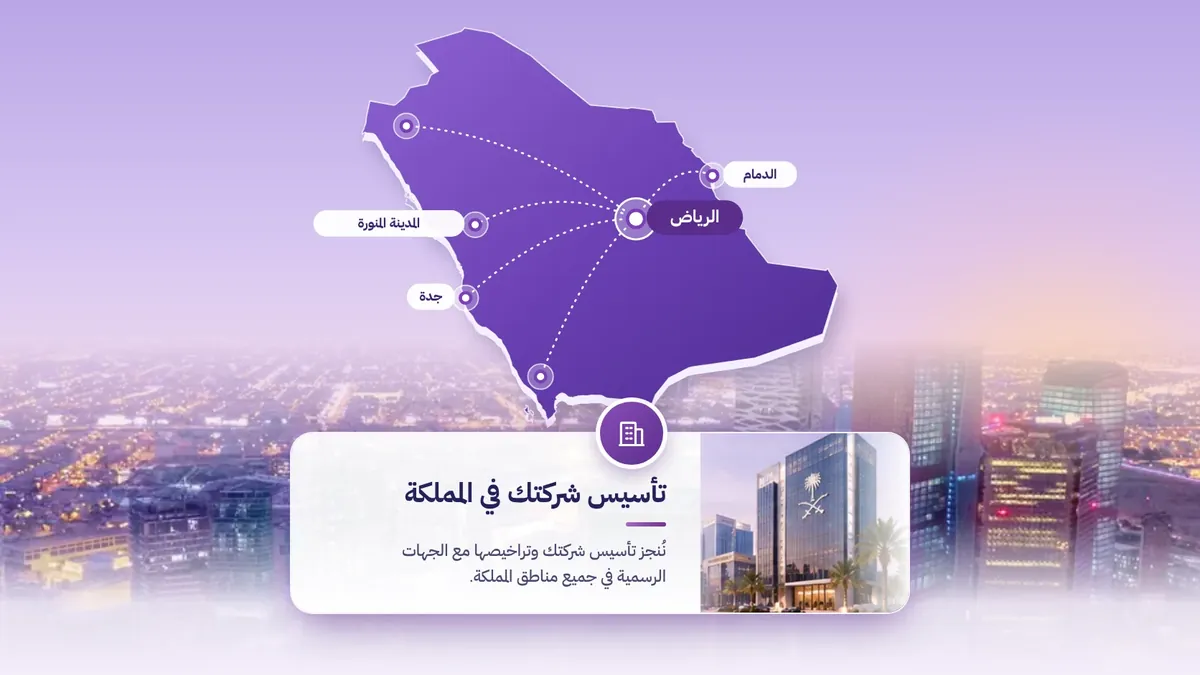
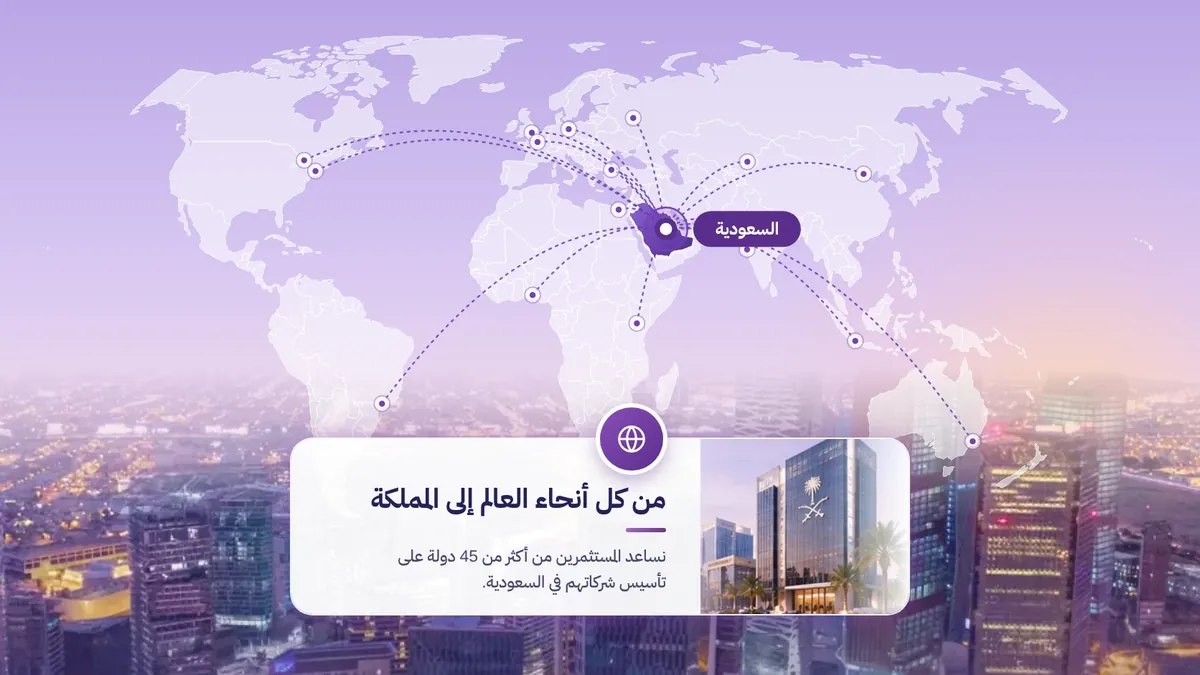
SA variant: foreign businessman hero, world-to-KSA image, FAQ for foreigners
Claude-Session: https://claude.ai/code/session_01NBvG3p8pHLfApGAyQMSkQa

diff --git a/sa/index.html b/sa/index.html
@@ -11,8 +11,8 @@ j=d.createElement(s),dl=l!='dataLayer'?'&l='+l:'';j.async=true;j.src=
 <meta charset="utf-8">
 <meta name="viewport" content="width=device-width, initial-scale=1, viewport-fit=cover">
 <title>تأسيس شركتك في السعودية بملكية أجنبية 100% للمقيمين | مرسى الأعمال</title>
-<link rel="preload" as="image" href="../assets/img/hero-1600.webp" media="(min-width:721px)" fetchpriority="high">
-<link rel="preload" as="image" href="../assets/img/hero-mobile.webp" media="(max-width:720px)" fetchpriority="high">
+<link rel="preload" as="image" href="../assets/img/hero-sa-1600.webp" media="(min-width:721px)" fetchpriority="high">
+<link rel="preload" as="image" href="../assets/img/hero-sa-mobile.webp" media="(max-width:720px)" fetchpriority="high">
 <meta name="description" content="مرسى الأعمال شريكك في تأسيس شركتك داخل المملكة: تأسيس الشركات، التراخيص، الامتثال الحكومي والإقامة المميزة. أكثر من 2,000 شركة تم تأسيسها.">
 <meta name="theme-color" content="#26488A">
 <link rel="icon" href="../assets/img/fav.png">
@@ -743,7 +743,7 @@ body.bar-on .wa-float{opacity:1;visibility:visible;transform:none}
 .form-card .phone-row .cc-pick .cc-btn{width:auto;min-width:112px;padding:0 30px 0 12px;font-size:15px}
 .hero h1 .hero-hl{font-style:normal;color:#fff;margin-top:10px;text-shadow:none;padding:.04em .45em .16em}
 </style>
-<script type="application/ld+json">{"@context": "https://schema.org", "@type": "FAQPage", "mainEntity": [{"@type": "Question", "name": "هل يمكن للمقيم في السعودية تأسيس شركة باسمه؟", "acceptedAnswer": {"@type": "Answer", "text": "نعم، في كثير من الأنشطة يمكن للمقيم تأسيس شركته بملكية كاملة عبر الترخيص الاستثماري. يقيّم مستشارك نشاطك ويوضح لك المتطلبات والخطوات المناسبة لحالتك."}}, {"@type": "Question", "name": "هل تشترطون جنسية معينة للاستفادة من خدماتكم؟", "acceptedAnswer": {"@type": "Answer", "text": "لا. نخدم المواطنين والمقيمين والمستثمرين الراغبين في تأسيس أعمالهم داخل المملكة، وقد خدمنا عملاء من أكثر من 45 دولة. تختلف المتطلبات حسب حالتك ونشاطك، ويحددها مستشارك في مرحلة التقييم."}}, {"@type": "Question", "name": "هل تساعدونني في تسجيل الاستثمار واختيار النشاط التجاري؟", "acceptedAnswer": {"@type": "Answer", "text": "نعم. نقيّم متطلبات الاستثمار، ونساعدك في اختيار النشاط التجاري، ثم نجهز ونتابع إجراءات التسجيل."}}, {"@type": "Question", "name": "هل تساعدون في فتح الحساب البنكي وتأشيرة المستثمر؟", "acceptedAnswer": {"@type": "Answer", "text": "نعم. ضمن مرحلة الجاهزية لممارسة الأعمال، نساعدك في فتح الحساب البنكي للشركة، وندعم إجراءات تأشيرة المستثمر والمدير العام."}}, {"@type": "Question", "name": "هل يمكنكم مساعدتي في الحصول على الإقامة المميزة؟", "acceptedAnswer": {"@type": "Answer", "text": "نقيّم أهليتك، ونساعدك في اختيار منتج الإقامة الأنسب، ونجهز المستندات ونتابع الطلب مع الجهات المختصة. يبقى قرار الموافقة لدى الجهة المختصة."}}, {"@type": "Question", "name": "ماذا تقدمون بعد تأسيس الشركة؟", "acceptedAnswer": {"@type": "Answer", "text": "نستمر معك في الامتثال الحكومي والتنظيمي، وتجديد التراخيص، والمنصات الحكومية، والتأشيرات، إضافة إلى العقارات والتسويق والهيكلة المالية واستشارات الأعمال."}}, {"@type": "Question", "name": "كم تستغرق إجراءات التأسيس، وما تكلفتها؟", "acceptedAnswer": {"@type": "Answer", "text": "تختلف المدة والتكلفة حسب نوع النشاط ومتطلبات الاستثمار. يوضحها لك مستشارك بعد تقييم متطلباتك."}}, {"@type": "Question", "name": "ماذا يحدث بعد أن أرسل بياناتي؟", "acceptedAnswer": {"@type": "Answer", "text": "يتواصل معك أحد مستشارينا لبدء الاستشارة الأولية، والتعرف على نشاطك وأهدافك، وتحديد المسار المناسب."}}]}</script>
+<script type="application/ld+json">{"@context": "https://schema.org", "@type": "FAQPage", "mainEntity": [{"@type": "Question", "name": "هل يمكن للأجنبي تأسيس شركة في السعودية؟", "acceptedAnswer": {"@type": "Answer", "text": "نعم، في كثير من الأنشطة يمكن للأجنبي تأسيس شركته في السعودية بملكية كاملة عبر الترخيص الاستثماري، سواء كان مقيمًا في المملكة أو خارجها. يقيّم مستشارك نشاطك ويوضح لك المتطلبات والخطوات المناسبة لحالتك."}}, {"@type": "Question", "name": "هل تشترطون جنسية معينة للاستفادة من خدماتكم؟", "acceptedAnswer": {"@type": "Answer", "text": "لا. نخدم المواطنين والمقيمين والمستثمرين الراغبين في تأسيس أعمالهم داخل المملكة، وقد خدمنا عملاء من أكثر من 45 دولة. تختلف المتطلبات حسب حالتك ونشاطك، ويحددها مستشارك في مرحلة التقييم."}}, {"@type": "Question", "name": "هل تساعدونني في تسجيل الاستثمار واختيار النشاط التجاري؟", "acceptedAnswer": {"@type": "Answer", "text": "نعم. نقيّم متطلبات الاستثمار، ونساعدك في اختيار النشاط التجاري، ثم نجهز ونتابع إجراءات التسجيل."}}, {"@type": "Question", "name": "هل تساعدون في فتح الحساب البنكي وتأشيرة المستثمر؟", "acceptedAnswer": {"@type": "Answer", "text": "نعم. ضمن مرحلة الجاهزية لممارسة الأعمال، نساعدك في فتح الحساب البنكي للشركة، وندعم إجراءات تأشيرة المستثمر والمدير العام."}}, {"@type": "Question", "name": "هل يمكنكم مساعدتي في الحصول على الإقامة المميزة؟", "acceptedAnswer": {"@type": "Answer", "text": "نقيّم أهليتك، ونساعدك في اختيار منتج الإقامة الأنسب، ونجهز المستندات ونتابع الطلب مع الجهات المختصة. يبقى قرار الموافقة لدى الجهة المختصة."}}, {"@type": "Question", "name": "ماذا تقدمون بعد تأسيس الشركة؟", "acceptedAnswer": {"@type": "Answer", "text": "نستمر معك في الامتثال الحكومي والتنظيمي، وتجديد التراخيص، والمنصات الحكومية، والتأشيرات، إضافة إلى العقارات والتسويق والهيكلة المالية واستشارات الأعمال."}}, {"@type": "Question", "name": "كم تستغرق إجراءات التأسيس، وما تكلفتها؟", "acceptedAnswer": {"@type": "Answer", "text": "تختلف المدة والتكلفة حسب نوع النشاط ومتطلبات الاستثمار. يوضحها لك مستشارك بعد تقييم متطلباتك."}}, {"@type": "Question", "name": "ماذا يحدث بعد أن أرسل بياناتي؟", "acceptedAnswer": {"@type": "Answer", "text": "يتواصل معك أحد مستشارينا لبدء الاستشارة الأولية، والتعرف على نشاطك وأهدافك، وتحديد المسار المناسب."}}]}</script>
 </head>
 <body>
 <!-- Google Tag Manager (noscript) -->
@@ -821,8 +821,8 @@ height="0" width="0" style="display:none;visibility:hidden"></iframe></noscript>
 <section class="hero" id="top" aria-labelledby="hero-t">
   <div class="hero-stage">
     <picture class="hero-media">
-      <source media="(max-width:720px)" srcset="../assets/img/hero-mobile.webp" width="1000" height="940">
-      <img src="../assets/img/hero-1600.webp" width="1600" height="719" alt="رجل أعمال سعودي يطل على أفق الرياض وبرج المملكة عند الغروب" fetchpriority="high" decoding="async">
+      <source media="(max-width:720px)" srcset="../assets/img/hero-sa-mobile.webp" width="1000" height="940">
+      <img src="../assets/img/hero-sa-1600.webp" width="1600" height="719" alt="رجل أعمال أجنبي ببدلة رسمية مع أفق مدينة الرياض" fetchpriority="high" decoding="async">
     </picture>
     <div class="wrap hero-in">
       <div class="hero-copy">
@@ -921,7 +921,7 @@ height="0" width="0" style="display:none;visibility:hidden"></iframe></noscript>
           <h3>خبرات متكاملة.<span>نوجّه بها أعمالك نحو النجاح.</span></h3>
           <p>خبرات متكاملة تدعمك في كل مرحلة من رحلة أعمالك في المملكة العربية السعودية.</p>
         </div>
-        <img class="wf-img" src="../assets/img/why-formation-sa.webp" width="1200" height="675" alt="خريطة المملكة العربية السعودية تربط الرياض بجدة والمدينة المنورة والدمام، مع بطاقة تأسيس الشركات" loading="lazy" decoding="async">
+        <img class="wf-img" src="../assets/img/why-formation-sa.webp" width="1200" height="675" alt="خريطة العالم تُظهر مستثمرين من دول مختلفة يتجهون إلى المملكة العربية السعودية لتأسيس شركاتهم" loading="lazy" decoding="async">
       </div>
       <div class="why-cards">
         <div class="why-card rv d1"><span class="wn">01</span><h3>خبرة 15 عامًا بالسوق السعودي</h3><p>فهم عميق للأنظمة واللوائح والإجراءات المحلية لتسهيل تأسيس شركتك وانطلاق أعمالك.</p></div>
@@ -1227,7 +1227,7 @@ height="0" width="0" style="display:none;visibility:hidden"></iframe></noscript>
       </div>
     </div>
     <div class="faq-list rv d1" id="faqList">
-      <div class="qa open"><button class="q" type="button" aria-expanded="true" aria-controls="fa0">هل يمكن للمقيم في السعودية تأسيس شركة باسمه؟<span class="pm"><svg class="ic"><use href="#i-plus"/></svg></span></button><div class="a-wrap" id="fa0"><div class="a-in"><p class="a">نعم، في كثير من الأنشطة يمكن للمقيم تأسيس شركته بملكية كاملة عبر الترخيص الاستثماري. يقيّم مستشارك نشاطك ويوضح لك المتطلبات والخطوات المناسبة لحالتك.</p></div></div></div>
+      <div class="qa open"><button class="q" type="button" aria-expanded="true" aria-controls="fa0">هل يمكن للأجنبي تأسيس شركة في السعودية؟<span class="pm"><svg class="ic"><use href="#i-plus"/></svg></span></button><div class="a-wrap" id="fa0"><div class="a-in"><p class="a">نعم، في كثير من الأنشطة يمكن للأجنبي تأسيس شركته في السعودية بملكية كاملة عبر الترخيص الاستثماري، سواء كان مقيمًا في المملكة أو خارجها. يقيّم مستشارك نشاطك ويوضح لك المتطلبات والخطوات المناسبة لحالتك.</p></div></div></div>
 <div class="qa"><button class="q" type="button" aria-expanded="false" aria-controls="fa1">هل تشترطون جنسية معينة للاستفادة من خدماتكم؟<span class="pm"><svg class="ic"><use href="#i-plus"/></svg></span></button><div class="a-wrap" id="fa1"><div class="a-in"><p class="a">لا. نخدم المواطنين والمقيمين والمستثمرين الراغبين في تأسيس أعمالهم داخل المملكة، وقد خدمنا عملاء من أكثر من 45 دولة. تختلف المتطلبات حسب حالتك ونشاطك، ويحددها مستشارك في مرحلة التقييم.</p></div></div></div>
 <div class="qa"><button class="q" type="button" aria-expanded="false" aria-controls="fa2">هل تساعدونني في تسجيل الاستثمار واختيار النشاط التجاري؟<span class="pm"><svg class="ic"><use href="#i-plus"/></svg></span></button><div class="a-wrap" id="fa2"><div class="a-in"><p class="a">نعم. نقيّم متطلبات الاستثمار، ونساعدك في اختيار النشاط التجاري، ثم نجهز ونتابع إجراءات التسجيل.</p></div></div></div>
 <div class="qa"><button class="q" type="button" aria-expanded="false" aria-controls="fa3">هل تساعدون في فتح الحساب البنكي وتأشيرة المستثمر؟<span class="pm"><svg class="ic"><use href="#i-plus"/></svg></span></button><div class="a-wrap" id="fa3"><div class="a-in"><p class="a">نعم. ضمن مرحلة الجاهزية لممارسة الأعمال، نساعدك في فتح الحساب البنكي للشركة، وندعم إجراءات تأشيرة المستثمر والمدير العام.</p></div></div></div>
